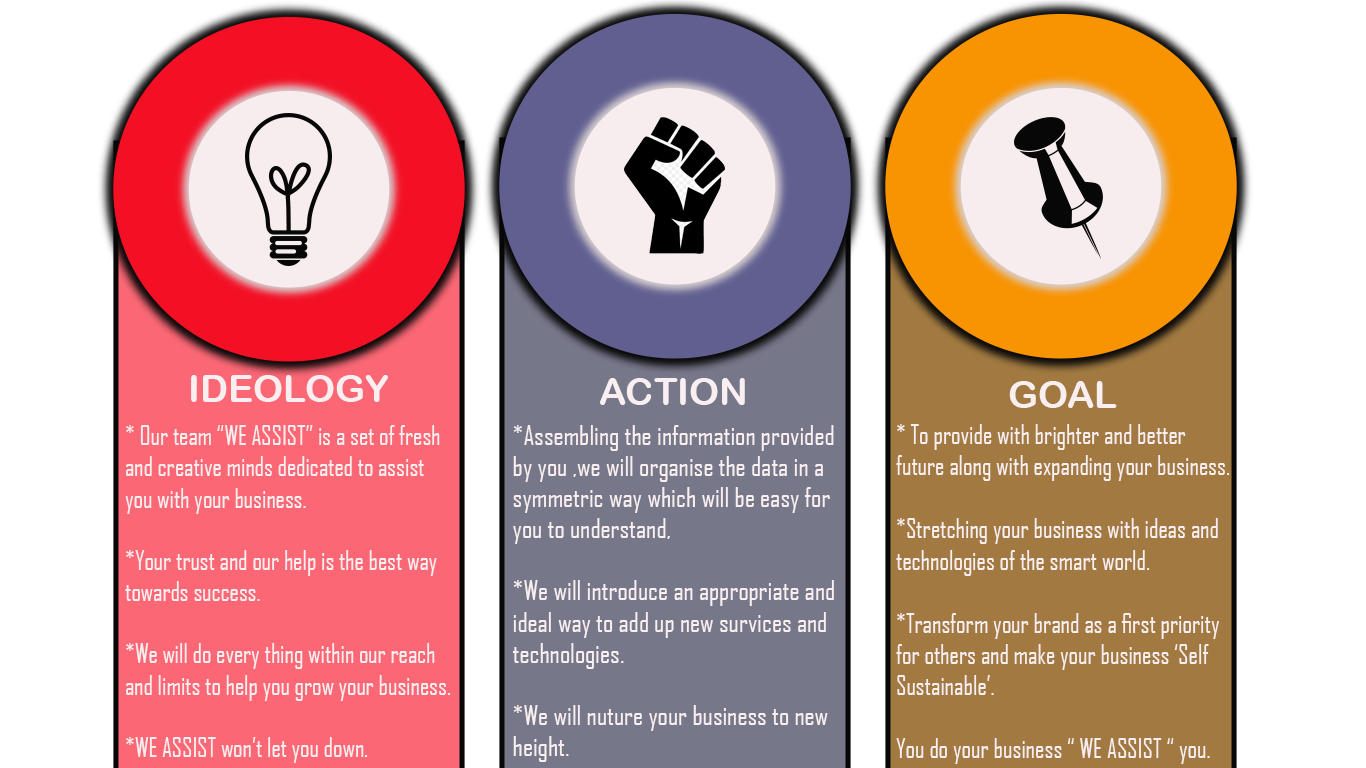
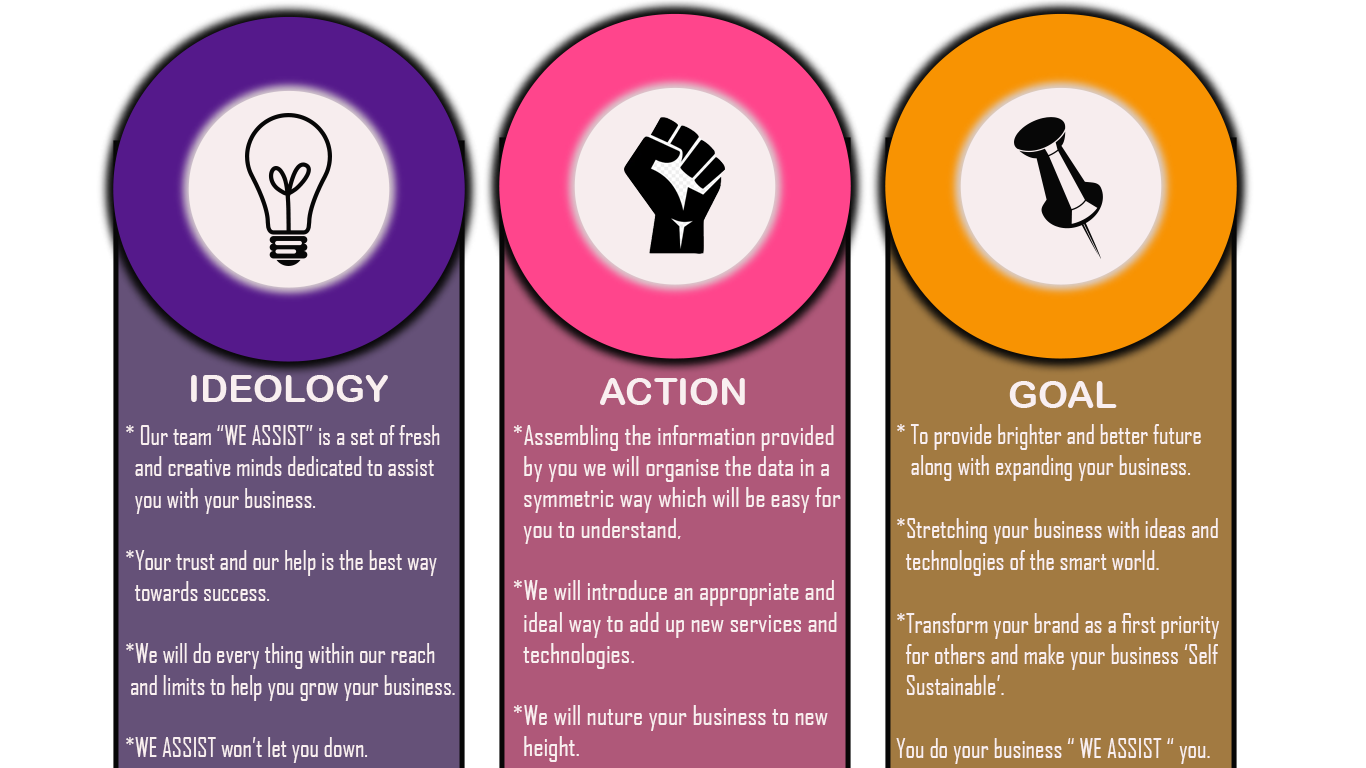
iag edited

diff --git a/src/components/HomeComponent.js b/src/components/HomeComponent.js
@@ -48,9 +48,9 @@ class Home extends Component {
 
         <div className="iag row py-5 justify-content-center">
           <img
-            style={{ width: "70%", height: "500px" }}
+            style={{ width: "70%", height: "600px" }}
             id="iag"
-            src="images/frontnew.png"
+            src="images/front.png"
             alt="Ideal action and Goal"
           />
         </div>
